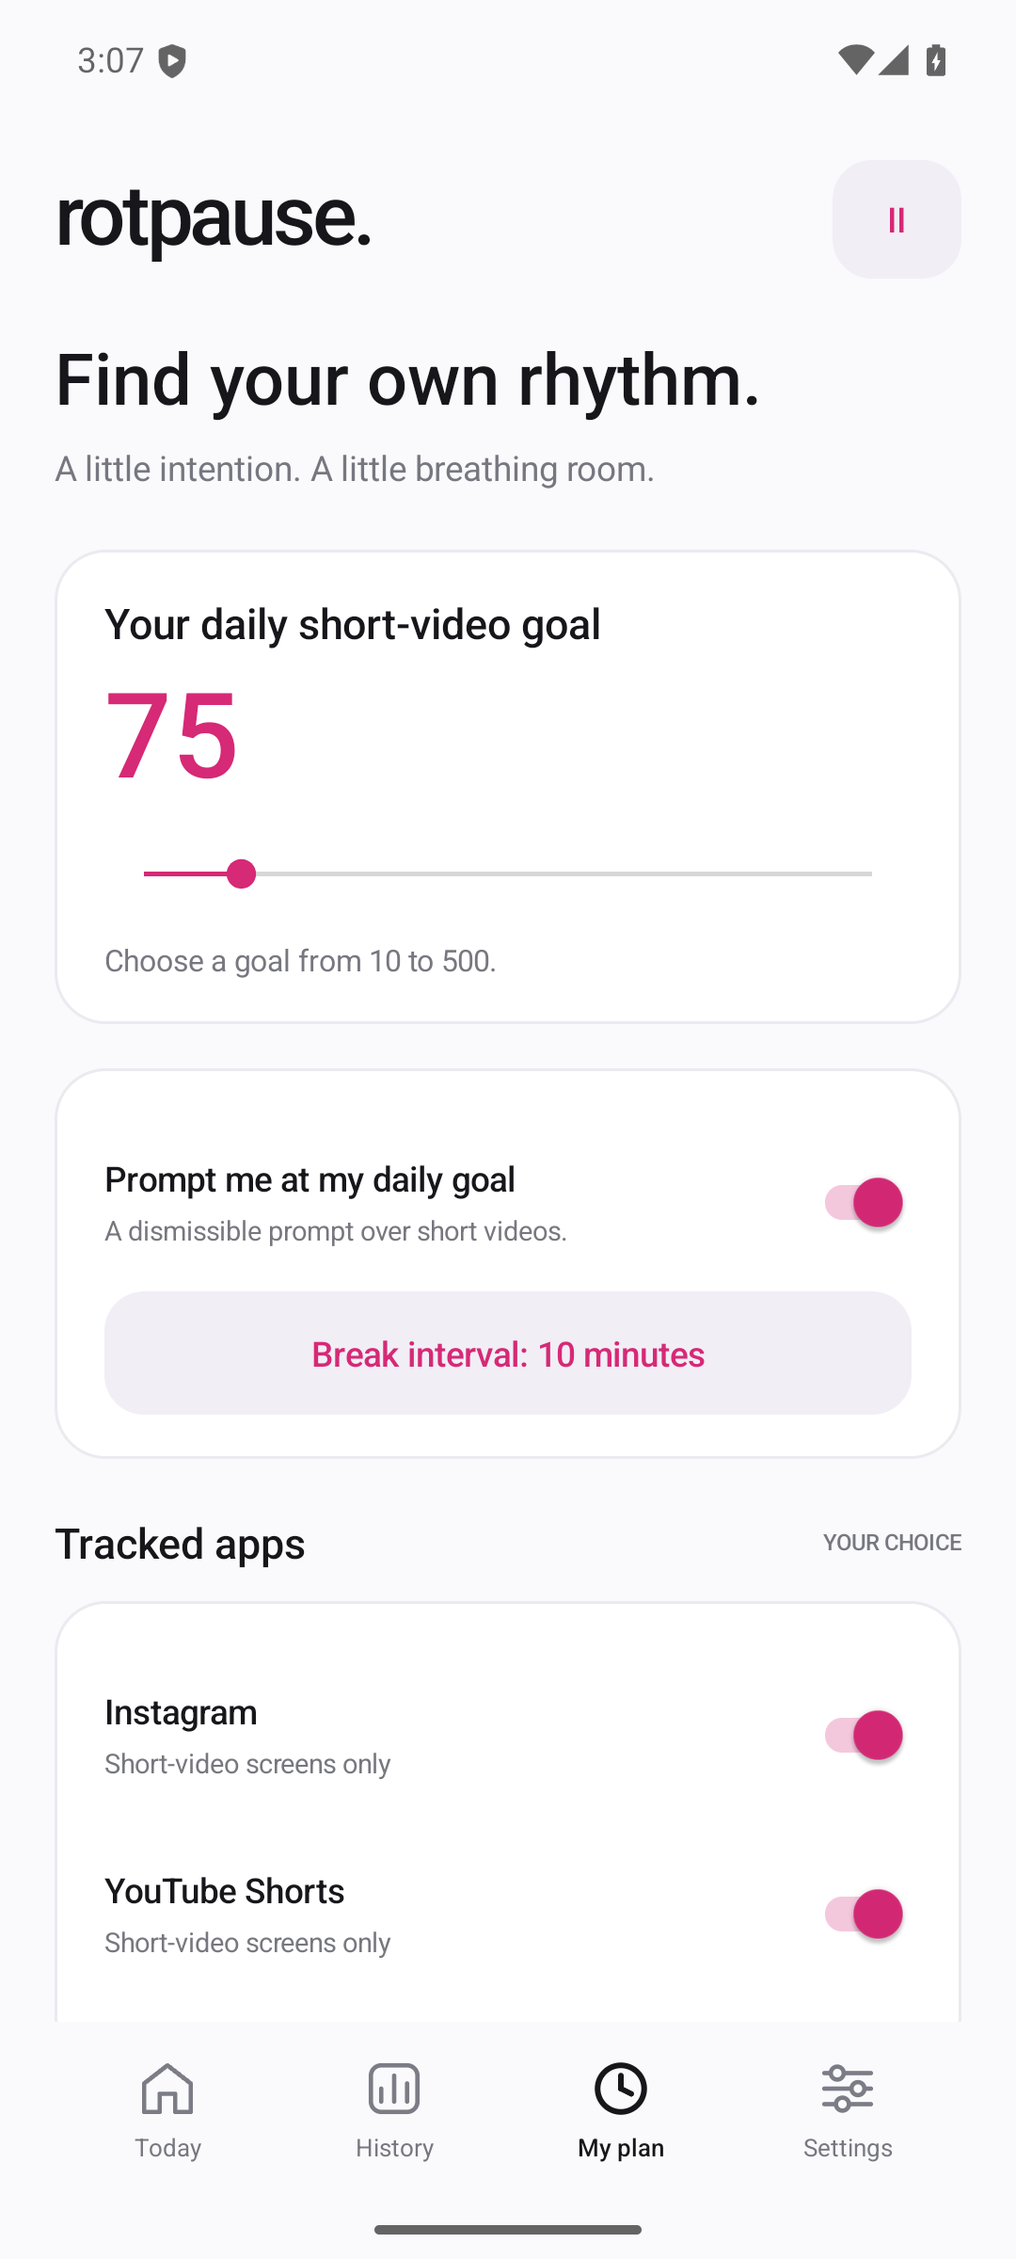
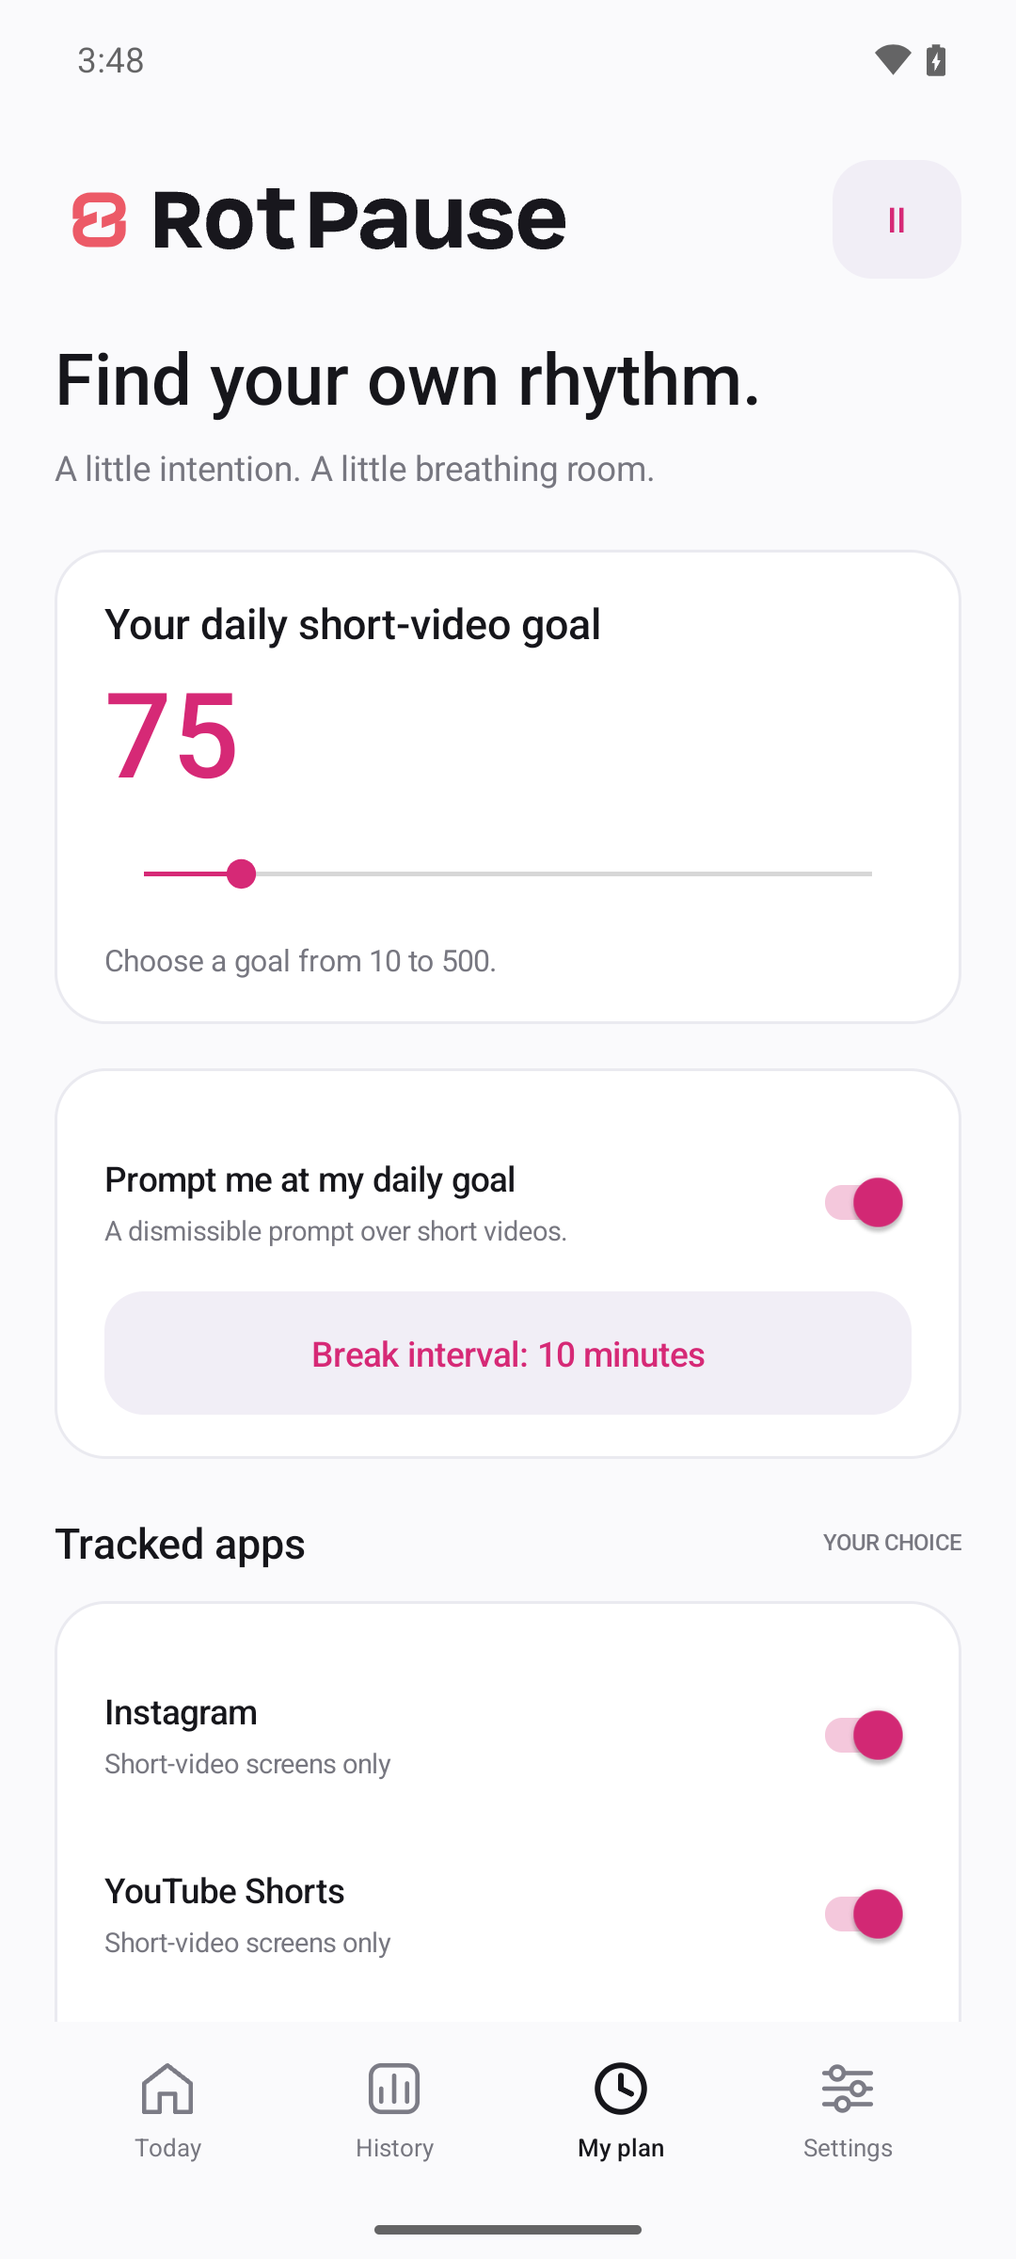
Apply RotPause vector identity to product website

Changed region(s): [[0.0611, 0.0625, 0.55, 0.125], [0.0917, 0.0, 0.1833, 0.0312], [0.825, 0.0, 0.8861, 0.0312]]

diff --git a/rotpause/index.html b/rotpause/index.html
@@ -5,11 +5,11 @@
 <meta name="description" content="An on-device Android short-video counter with gentle prompts, daily goals and room to breathe. RotPause is currently a release preview.">
 <meta name="theme-color" content="#fafafc">
 <style>
-:root{color-scheme:light;--ink:#16161b;--muted:#61616c;--pink:#d62976;--pale:#f1eef6}*{box-sizing:border-box}body{margin:0;background:#fafafc;color:var(--ink);font:17px/1.65 system-ui,sans-serif}a{color:#a5195d;text-underline-offset:4px}a:focus-visible{outline:3px solid #4f5bd5;outline-offset:5px}nav,main,footer{max-width:1160px;margin:auto;padding:24px}nav{display:flex;align-items:center;justify-content:space-between;gap:20px}.brand{font-size:30px;font-weight:800;letter-spacing:-1.5px;text-decoration:none;color:var(--ink)}nav .links{display:flex;gap:24px;font-size:14px}.hero{display:grid;grid-template-columns:1.2fr 1fr;align-items:center;gap:64px;padding:44px 0 70px}.eyebrow{font-size:12px;letter-spacing:2px;text-transform:uppercase;font-weight:700;color:#9a2460}.icon{width:70px;height:70px;border-radius:18px}h1{font-size:clamp(48px,6vw,80px);letter-spacing:-.065em;line-height:1.02;margin:22px 0}h2{font-size:32px;line-height:1.15;letter-spacing:-.035em}h3{font-size:21px;line-height:1.25}.lead{font-size:21px;color:var(--muted);max-width:530px}.pill{display:inline-block;background:var(--pale);border-radius:30px;padding:9px 15px;font-size:13px;font-weight:650}.hero .note{font-size:14px;max-width:480px;color:var(--muted)}.phone{width:100%;height:auto;max-width:320px;border:9px solid #16161b;border-radius:40px;display:block;margin:auto;box-shadow:0 24px 70px #4f2b6c20}.scene{padding:24px;background:linear-gradient(135deg,#fa7e1e14,#d629761b,#4f5bd51b);border-radius:48px}.grid{display:grid;grid-template-columns:repeat(3,1fr);gap:18px}.card{background:white;border:1px solid #e6e4eb;border-radius:24px;padding:26px}.card p{font-size:16px;color:var(--muted)}.line{height:5px;width:44px;border-radius:5px;background:linear-gradient(90deg,#fa7e1e,#d62976,#4f5bd5)}section{padding:35px 0}.plain{max-width:810px}.plain p{color:var(--muted)}details{border-bottom:1px solid #dedde5;padding:20px 0}summary{font-weight:650;cursor:pointer}details p{font-size:16px}footer{border-top:1px solid #e1dfe8;margin-top:30px;padding-top:28px;padding-bottom:40px;font-size:14px;color:var(--muted)}footer a{margin-right:18px}footer p{margin:12px 0}@media(max-width:760px){nav .links{gap:14px}.hero{grid-template-columns:1fr;gap:30px;padding-top:28px}.grid{grid-template-columns:1fr}.scene{max-width:380px;width:100%;margin:auto}h1{font-size:56px}.lead{font-size:19px}nav,main,footer{padding-left:22px;padding-right:22px}}
+:root{color-scheme:light;--ink:#16161b;--muted:#61616c;--pink:#d62976;--pale:#f1eef6}*{box-sizing:border-box}body{margin:0;background:#fafafc;color:var(--ink);font:17px/1.65 system-ui,sans-serif}a{color:#a5195d;text-underline-offset:4px}a:focus-visible{outline:3px solid #4f5bd5;outline-offset:5px}nav,main,footer{max-width:1160px;margin:auto;padding:24px}nav{display:flex;align-items:center;justify-content:space-between;gap:20px}.brand img{display:block;width:188px;height:auto}.brand{font-size:30px;font-weight:800;letter-spacing:-1.5px;text-decoration:none;color:var(--ink)}nav .links{display:flex;gap:24px;font-size:14px}.hero{display:grid;grid-template-columns:1.2fr 1fr;align-items:center;gap:64px;padding:44px 0 70px}.eyebrow{font-size:12px;letter-spacing:2px;text-transform:uppercase;font-weight:700;color:#9a2460}.icon{width:70px;height:70px;border-radius:18px}h1{font-size:clamp(48px,6vw,80px);letter-spacing:-.065em;line-height:1.02;margin:22px 0}h2{font-size:32px;line-height:1.15;letter-spacing:-.035em}h3{font-size:21px;line-height:1.25}.lead{font-size:21px;color:var(--muted);max-width:530px}.pill{display:inline-block;background:var(--pale);border-radius:30px;padding:9px 15px;font-size:13px;font-weight:650}.hero .note{font-size:14px;max-width:480px;color:var(--muted)}.phone{width:100%;height:auto;max-width:320px;border:9px solid #16161b;border-radius:40px;display:block;margin:auto;box-shadow:0 24px 70px #4f2b6c20}.scene{padding:24px;background:linear-gradient(135deg,#fa7e1e14,#d629761b,#4f5bd51b);border-radius:48px}.grid{display:grid;grid-template-columns:repeat(3,1fr);gap:18px}.card{background:white;border:1px solid #e6e4eb;border-radius:24px;padding:26px}.card p{font-size:16px;color:var(--muted)}.line{height:5px;width:44px;border-radius:5px;background:linear-gradient(90deg,#fa7e1e,#d62976,#4f5bd5)}section{padding:35px 0}.plain{max-width:810px}.plain p{color:var(--muted)}details{border-bottom:1px solid #dedde5;padding:20px 0}summary{font-weight:650;cursor:pointer}details p{font-size:16px}footer{border-top:1px solid #e1dfe8;margin-top:30px;padding-top:28px;padding-bottom:40px;font-size:14px;color:var(--muted)}footer a{margin-right:18px}footer p{margin:12px 0}@media(max-width:760px){nav .links{gap:14px}.hero{grid-template-columns:1fr;gap:30px;padding-top:28px}.grid{grid-template-columns:1fr}.scene{max-width:380px;width:100%;margin:auto}h1{font-size:56px}.lead{font-size:19px}nav,main,footer{padding-left:22px;padding-right:22px}}
 </style></head>
-<body><nav aria-label="Main"><a class="brand" href="./">rotpause.</a><div class="links"><a href="support/">Support</a><a href="privacy/">Privacy</a></div></nav>
-<main><div class="hero"><div><img class="icon" src="icon.png" alt="RotPause pause and sprout icon" width="70" height="70"><p class="eyebrow">A little more life.</p><h1>Catch the scroll.<br>Pause the rot.</h1><p class="lead">Notice how many short videos pass by. Set your own rhythm, take a breath, and leave a little room for life beyond the screen.</p><span class="pill">Android · Release preview</span><p class="note">Planned price: US$1, paid once. No ads, subscriptions or in-app purchases. RotPause has not launched on Google Play yet; final local prices will appear in the store.</p><p><a href="support/">Get help with the preview →</a></p></div><div class="scene"><img class="phone" src="today.png" alt="Actual RotPause Today screen showing the daily short-video goal and optional counter setup" width="1080" height="2340"></div></div>
+<body><nav aria-label="Main"><a class="brand" href="./"><img src="lockup.svg" width="188" height="35" alt="RotPause"></a><div class="links"><a href="support/">Support</a><a href="privacy/">Privacy</a></div></nav>
+<main><div class="hero"><div><img class="icon" src="icon.png" alt="RotPause interrupted-loop icon" width="70" height="70"><p class="eyebrow">A little more life.</p><h1>Catch the scroll.<br>Pause the rot.</h1><p class="lead">Notice how many short videos pass by. Set your own rhythm, take a breath, and leave a little room for life beyond the screen.</p><span class="pill">Android · Release preview</span><p class="note">Planned price: US$1, paid once. No ads, subscriptions or in-app purchases. RotPause has not launched on Google Play yet; final local prices will appear in the store.</p><p><a href="support/">Get help with the preview →</a></p></div><div class="scene"><img class="phone" src="today.png" alt="Actual RotPause Today screen showing the daily short-video goal and optional counter setup" width="1080" height="2340"></div></div>
 <section aria-labelledby="features"><p class="eyebrow">Small signals. Your choices.</p><h2 id="features">A calmer way to notice.</h2><div class="grid"><article class="card"><div class="line"></div><h3>See your rhythm.</h3><p>Daily counts, time in detected short-video screens and a seven-day view help you see the pattern.</p></article><article class="card"><div class="line"></div><h3>Choose your pause.</h3><p>Set a daily goal. Use an optional live counter, dismissible prompts or a two-minute breathing break.</p></article><article class="card"><div class="line"></div><h3>Keep it close.</h3><p>Usage history and settings stay on your device. The Android app requests no internet permission.</p></article></div></section>
 <section class="plain" aria-labelledby="compat"><h2 id="compat">Built around short-video screens.</h2><p>The current candidate includes adapters for Instagram Reels, YouTube Shorts, Facebook Reels and Snapchat Spotlight. Compatibility with current real app versions is still being validated. TikTok and fullscreen X video detection are experimental and switched off by default. X text timelines are not intended to count.</p><p>Counts are estimates based on detectable screens and transitions, rather than official platform view statistics. Third-party layout changes can affect results. Android 8 or later is required; not every Android version or device has been tested.</p></section>
 <section class="plain" aria-labelledby="faq"><h2 id="faq">A few things to know.</h2><details><summary>Why does it ask for accessibility permission?</summary><p>With your separate, optional consent and Android permission, RotPause detects supported short-video screens and scroll events. It temporarily processes interface identifiers and selected navigation labels. It does not record messages, passwords, videos, audio or screenshots. You can explore the app without enabling the service.</p></details><details><summary>Can I pause it or remove my data?</summary><p>Yes. Pause counting, change tracked apps, withdraw consent or disable the Android service. Settings lets you export history, settings and consent metadata, or delete counting history. Uninstalling removes local app data. Copies you export are managed separately by you.</p></details><details><summary>How long is history kept?</summary><p>History older than 90 calendar days is removed when RotPause next runs or records activity. It is not deleted by a background timer while the app is dormant. Settings and the latest consent choice remain until app data is cleared or the app is uninstalled.</p></details><details><summary>Is it a health or treatment app?</summary><p>No medical advice, diagnosis or treatment is provided. “Brain rot” is a playful description of scrolling habits, not a medical score or a claim about brain damage.</p></details><details><summary>Can I buy it now?</summary><p>Not yet. This page describes a release preview. There is no live Google Play listing or purchase link. The planned purchase is a one-time US$1 base price, subject to the store's local pricing and taxes.</p></details></section></main>
-<footer><a class="brand" href="./">rotpause.</a><p>Made by OFCode · <a href="mailto:contact@ofcodedev.me">contact@ofcodedev.me</a></p><p><a href="privacy/">Privacy</a><a href="support/">Support</a><a href="refunds/">Purchases & refunds</a><a href="https://ofcodedev.me/">OFCode Dev</a></p><p>Independent product. Not affiliated with or endorsed by Instagram, Meta, YouTube, Google, Snapchat, TikTok or X.</p></footer></body></html>
+<footer><a class="brand" href="./"><img src="lockup.svg" width="188" height="35" alt="RotPause"></a><p>Made by OFCode · <a href="mailto:contact@ofcodedev.me">contact@ofcodedev.me</a></p><p><a href="privacy/">Privacy</a><a href="support/">Support</a><a href="refunds/">Purchases & refunds</a><a href="https://ofcodedev.me/">OFCode Dev</a></p><p>Independent product. Not affiliated with or endorsed by Instagram, Meta, YouTube, Google, Snapchat, TikTok or X.</p></footer></body></html>

diff --git a/rotpause/privacy/index.html b/rotpause/privacy/index.html
@@ -1,10 +1,10 @@
 <!doctype html>
 <html lang="en"><meta charset="utf-8"><meta name="viewport" content="width=device-width,initial-scale=1"><title>RotPause Privacy Policy · OFCode</title>
 <style>body{margin:0;background:#fafafc;color:#16161b;font:17px/1.7 system-ui,sans-serif}main{max-width:760px;margin:auto;padding:56px 24px 90px}a{color:#d62976}h1{font-size:42px;line-height:1.15;letter-spacing:-.04em}h2{font-size:22px;margin-top:35px}.label{color:#777780;font-size:13px;letter-spacing:.1em}.brand{font-size:30px;font-weight:700;text-decoration:none}footer{border-top:1px solid #eaeaf0;margin-top:40px;padding-top:20px;font-size:14px}</style>
-<main><a class="brand" href="../">rotpause.</a><p class="label">PRIVACY POLICY · UPDATED 28 OCTOBER 2026 · APP 1.0.1</p><h1>Your scrolling data<br>stays with you.</h1>
+<main><a class="brand" href="../"><img src="../lockup.svg" width="188" height="35" style="height:auto" alt="RotPause"></a><p class="label">PRIVACY POLICY · UPDATED 28 OCTOBER 2026 · APP 1.0.2</p><h1>Your scrolling data<br>stays with you.</h1>
 <p>RotPause is an Android short-video counter developed by OFCode. This policy explains the information processed by the app. Contact us at <a href="mailto:contact@ofcodedev.me">contact@ofcodedev.me</a>.</p>
 <h2>Information processed on your device</h2><p>When you explicitly consent and enable its Android Accessibility Service, RotPause detects supported short-video screens and scrolling in the Instagram, YouTube, Facebook, Snapchat, TikTok and X apps you choose. It transiently processes interface resource identifiers and selected navigation-control labels to identify those screens. It does not record messages, passwords, video content, audio or screenshots.</p>
-<p>RotPause 1.0.1 stores the date, app category, detected short-video count and precise duration locally in its app storage. It also stores settings and your latest accessibility-consent choice, notice version and UTC grant or withdrawal timestamps. The unused hourly totals from the earlier preview are removed on upgrade to 1.0.1; new hourly history is not recorded. TikTok and fullscreen X detection are experimental and off by default. Current real-app compatibility validation is incomplete.</p>
+<p>From version 1.0.1, RotPause stores the date, app category, detected short-video count and precise duration locally in its app storage. It also stores settings and your latest accessibility-consent choice, notice version and UTC grant or withdrawal timestamps. The unused hourly totals from the earlier preview are removed on upgrade to 1.0.1; new hourly history is not recorded. TikTok and fullscreen X detection are experimental and off by default. Current real-app compatibility validation is incomplete.</p>
 <h2>No remote collection or sharing</h2><p>RotPause has no internet permission, accounts, advertising, subscriptions, analytics SDKs or remote servers. The app does not transmit your accessibility information or local records to OFCode or third parties. We do not sell your data. If you explicitly choose Export, Android lets you select the destination application. The export contains daily history, settings and consent metadata; that destination's own privacy practices apply to what you share.</p>
 <h2>Accessibility permission and your control</h2><p>The Accessibility Service is used only for the disclosed counter functionality, optional live-counter overlays and optional dismissible break prompts. RotPause is not a disability support tool. It performs a navigation action only if you tap the Leave short videos button.</p><p>You can explore the app without granting accessibility permission. Pause counting, turn overlays or reminders off, select which supported apps to track, or withdraw consent in RotPause Settings. You can also disable the service in Android Accessibility settings or uninstall RotPause at any time.</p>
 <h2>Retention, export and deletion</h2><p>History older than 90 calendar days is removed when RotPause next runs or records activity. No background timer cleans dormant app storage. You can remove all counting history in RotPause Settings; settings and the latest consent choice remain. Withdrawing consent stops counting without deleting past records. Settings and consent metadata remain until Android app data is cleared or RotPause is uninstalled. System cloud backup and device transfer of RotPause's app data are disabled in the app configuration. Uninstalling the app removes its local app data. Any copy you choose to export is under your control and is not deleted by RotPause.</p>

diff --git a/rotpause/refunds/index.html b/rotpause/refunds/index.html
@@ -1,1 +1,1 @@
-<!doctype html><html lang="en"><meta charset="utf-8"><meta name="viewport" content="width=device-width,initial-scale=1"><title>RotPause Purchases & Refunds · OFCode</title><style>body{background:#fafafc;color:#16161b;font:17px/1.7 system-ui,sans-serif;margin:0}main{max-width:760px;margin:auto;padding:56px 24px 90px}h1{font-size:42px;line-height:1.15;letter-spacing:-.04em}h2{font-size:23px;margin-top:32px}a{color:#a5195d}.note{padding:18px;background:#f1eef6;border-radius:16px}</style><main><a href="../">rotpause.</a><h1>Purchases & refunds.</h1><p class="note">Release preview: RotPause has not launched on Google Play. There is currently no RotPause purchase to make through this website.</p><h2>Planned purchase</h2><p>The intended Google Play model is a one-time paid download at a US$1 base price, with no subscriptions, advertising or in-app purchases. Your applicable local price and taxes will be displayed by Google Play before purchase. This website does not take payments.</p><h2>Google Play purchases</h2><p>When the app becomes available, use <a href="https://support.google.com/googleplay/answer/15574908?hl=en">Google Play's current app refund guidance</a>. Google says a purchase within 48 hours may qualify depending on its details. For an older purchase, contact the developer for help. A refund is not automatically guaranteed by the 48-hour period.</p><p>For assistance, email <a href="mailto:contact@ofcodedev.me?subject=RotPause%20purchase%20help">contact@ofcodedev.me</a>. Describe the issue and purchase date. An order reference may be requested only if needed; never send your password, payment-card details or account credentials.</p><h2>Your rights</h2><p>Refund eligibility depends on the transaction, region, applicable law and store policy. Nothing on this information page excludes or limits mandatory consumer rights. This page does not create a separate unconditional refund guarantee or replace the final seller disclosures and terms required before launch.</p><p><a href="../support/">Support</a> · <a href="../privacy/">Privacy policy</a> · Updated 28 October 2026</p></main></html>
+<!doctype html><html lang="en"><meta charset="utf-8"><meta name="viewport" content="width=device-width,initial-scale=1"><title>RotPause Purchases & Refunds · OFCode</title><style>body{background:#fafafc;color:#16161b;font:17px/1.7 system-ui,sans-serif;margin:0}main{max-width:760px;margin:auto;padding:56px 24px 90px}h1{font-size:42px;line-height:1.15;letter-spacing:-.04em}h2{font-size:23px;margin-top:32px}a{color:#a5195d}.note{padding:18px;background:#f1eef6;border-radius:16px}</style><main><a href="../"><img src="../lockup.svg" width="188" height="35" style="height:auto" alt="RotPause"></a><h1>Purchases & refunds.</h1><p class="note">Release preview: RotPause has not launched on Google Play. There is currently no RotPause purchase to make through this website.</p><h2>Planned purchase</h2><p>The intended Google Play model is a one-time paid download at a US$1 base price, with no subscriptions, advertising or in-app purchases. Your applicable local price and taxes will be displayed by Google Play before purchase. This website does not take payments.</p><h2>Google Play purchases</h2><p>When the app becomes available, use <a href="https://support.google.com/googleplay/answer/15574908?hl=en">Google Play's current app refund guidance</a>. Google says a purchase within 48 hours may qualify depending on its details. For an older purchase, contact the developer for help. A refund is not automatically guaranteed by the 48-hour period.</p><p>For assistance, email <a href="mailto:contact@ofcodedev.me?subject=RotPause%20purchase%20help">contact@ofcodedev.me</a>. Describe the issue and purchase date. An order reference may be requested only if needed; never send your password, payment-card details or account credentials.</p><h2>Your rights</h2><p>Refund eligibility depends on the transaction, region, applicable law and store policy. Nothing on this information page excludes or limits mandatory consumer rights. This page does not create a separate unconditional refund guarantee or replace the final seller disclosures and terms required before launch.</p><p><a href="../support/">Support</a> · <a href="../privacy/">Privacy policy</a> · Updated 28 October 2026</p></main></html>
